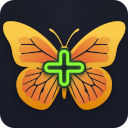
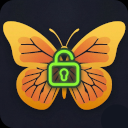
Changes name from Plus to Unlocked

diff --git a/popup.html b/popup.html
@@ -4,13 +4,13 @@
 <head>
   <meta charset="UTF-8">
   <meta name="viewport" content="width=device-width, initial-scale=1.0">
-  <title>MonarchMoney Plus Settings</title>
+  <title>Monarch Money: Unlocked Settings</title>
   <link rel="stylesheet" href="popup.css">
 </head>
 
 <body>
   <div class="popup-container">
-    <h1 class="popup-title">MonarchMoney Plus</h1>
+    <h1 class="popup-title">Monarch Money: Unlocked 🔓</h1>
     <p class="popup-byline">by <a href="https://www.egodevnull.com/" target="_blank"
         rel="noopener noreferrer">Ego/dev/null</a> <a href="https://ko-fi.com/egodevnull" target="_blank"
         rel="noopener noreferrer" class="coffee-btn">☕☕</a></p>

diff --git a/README.md b/README.md
@@ -1,4 +1,4 @@
-# MonarchMoney Plus
+# Monarch Money: Unlocked
 <img width="128" height="128" alt="icon128" src="https://github.com/user-attachments/assets/9ddab607-953a-40e1-b3de-08eb9fa9f92e" />
 
 A Chrome Extension that enhances [Monarch Money](https://app.monarch.com) with clickable links in transaction Notes and automatic dashboard timeframe selection.
@@ -73,7 +73,7 @@ Load settings from chrome.storage.sync
 2. Open Chrome and navigate to `chrome://extensions/`
 3. Enable **Developer mode** using the toggle in the top-right corner.
 4. Click **Load unpacked**.
-5. Select the `MonarchMoney-Links` folder.
+5. Select the `MM-Unlocked` folder.
 6. The extension is now active — navigate to any Monarch Money page to use it.
 7. (Optional) Click the extension icon to configure settings.
 
